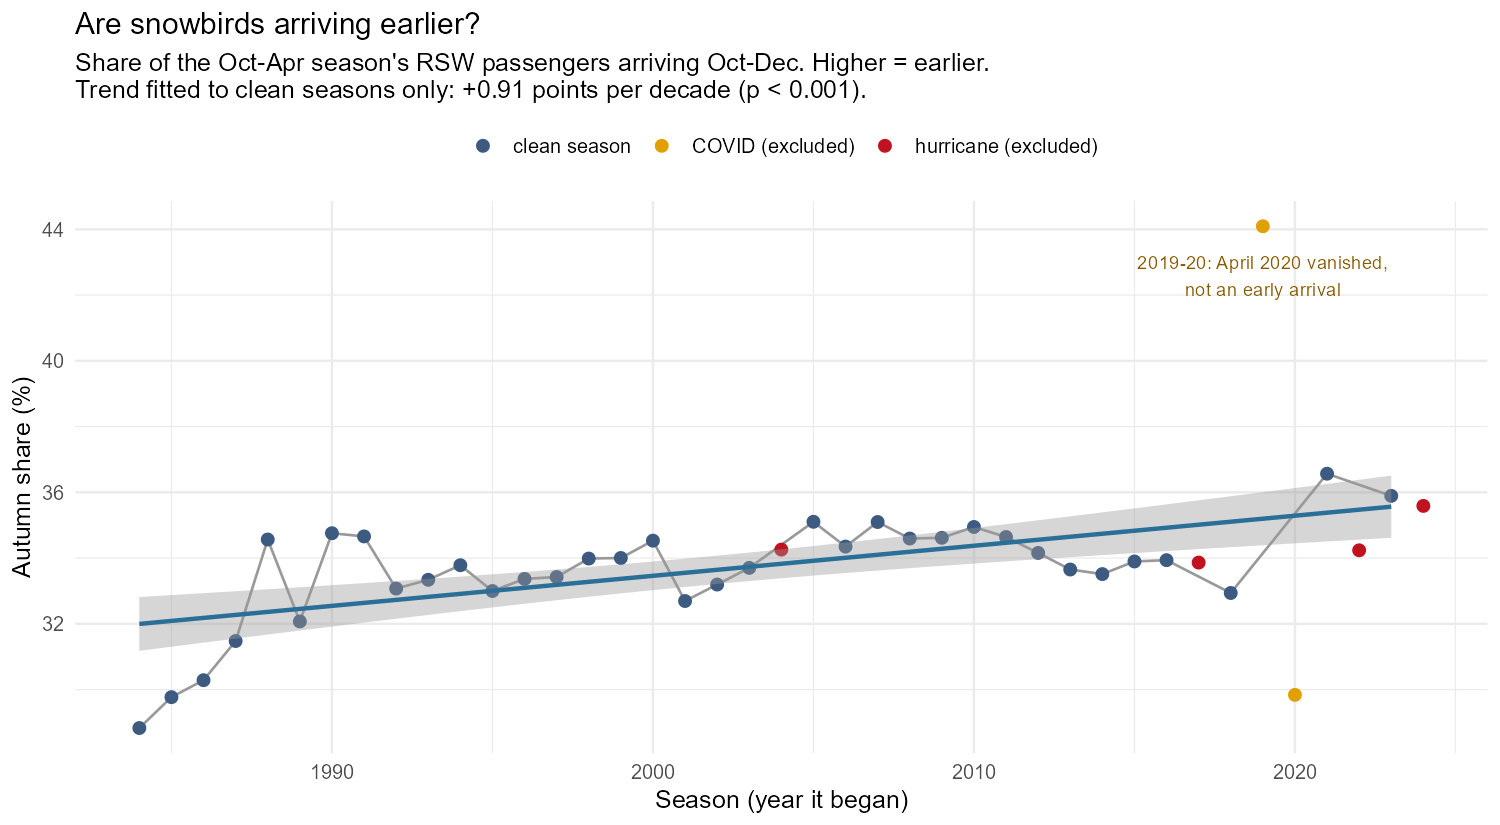
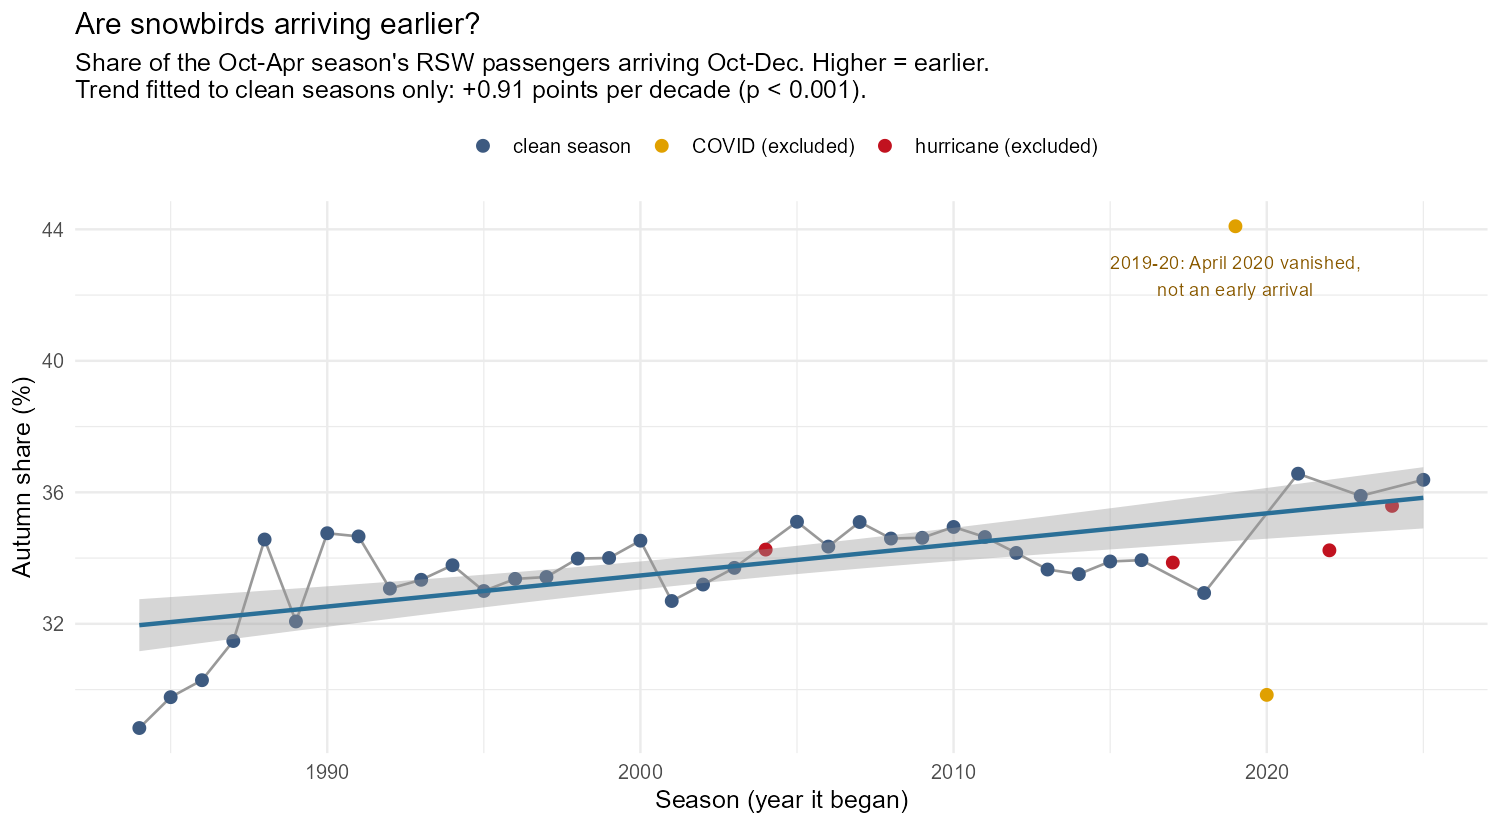
Complete the 2025-26 season from monthly releases; lead dashboard with forecast
R/11 now pulls LCPA's monthly news releases, each of which states that
month's passenger count, so the 2025-26 season is complete now instead of
waiting for the January rebuild of the statistics PDF.

2025-26 result: autumn share 36.4% (z = +1.14, highest clean season on
record), centroid 4.31 (z = -1.16, earlier), October share 27.5%
(z = +1.55). All three measures agree and point earlier. Suggestive and
consistent rather than conclusive, and aligned with the decades-long trend.

app.R: the headline is now the forecast, not the temperature trend. Four
value boxes give next trough, season start/end, next peak and the
peak-to-trough swing as real calendar dates. The temperature trend moves
under the Window shift chart with a pointer to the Robustness tab, since
it survives only 2 of 25 thresholds and had no business leading.

diff --git a/README.md b/README.md
@@ -114,10 +114,41 @@ Over 35 clean seasons, arrivals really have shifted earlier. This is the
 strongest, most robust result in the whole project — far better evidenced than
 anything the temperature data produced.
 
-### Autumn 2025 specifically: suggestive, not proven
+### The 2025-26 season: complete, and it leans earlier
 
-The newest *complete* season (2024-25) was hurricane-hit and useless. But we
-have all of autumn 2025, so the script adds two measures that need only that:
+The big statistics PDF is only rebuilt each January, so it stops at Dec 2025.
+But LCPA publish a **news release every month**, each stating that month's
+count. `R/11` pulls those in, which completes the 2025-26 season now rather
+than waiting a year:
+
+| Month | Passengers |
+|---|---|
+| Jan 2026 | 1,063,645 |
+| Feb 2026 | 1,190,070 |
+| Mar 2026 | 1,521,149 |
+| Apr 2026 | 1,152,669 |
+
+**Result for 2025-26:**
+
+| Measure | Value | vs typical | z |
+|---|---|---|---|
+| Autumn share | **36.4%** | 34.6% | **+1.14** |
+| Arrival centroid | **4.31** | — | **−1.16** (earlier) |
+| October share | **27.5%** | 25.9% | **+1.55** |
+
+**All three measures point the same way.** 36.4% is the highest autumn share of
+any clean season on record. Each is individually short of the conventional
+2-SD bar, but they are not independent restatements of luck — they agree, and
+they agree with the decades-long trend.
+
+**Verdict: your instinct was right.** The 2025-26 season did run earlier than
+normal, by roughly 1 to 1.5 standard deviations depending on the measure.
+Suggestive and consistent rather than conclusive.
+
+### Autumn 2025 in isolation
+
+Two measures that need only the autumn months, so they work before a season
+completes:
 
 | Autumn | Oct share | Lift vs summer | |
 |---|---|---|---|
